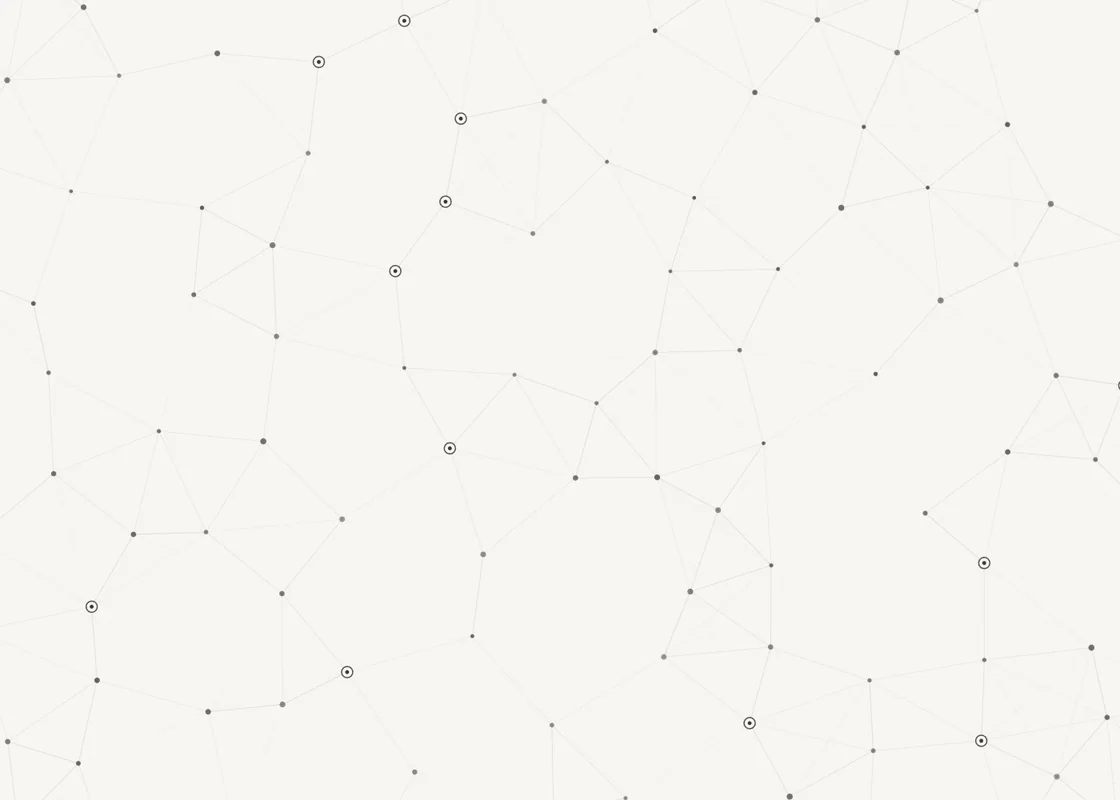
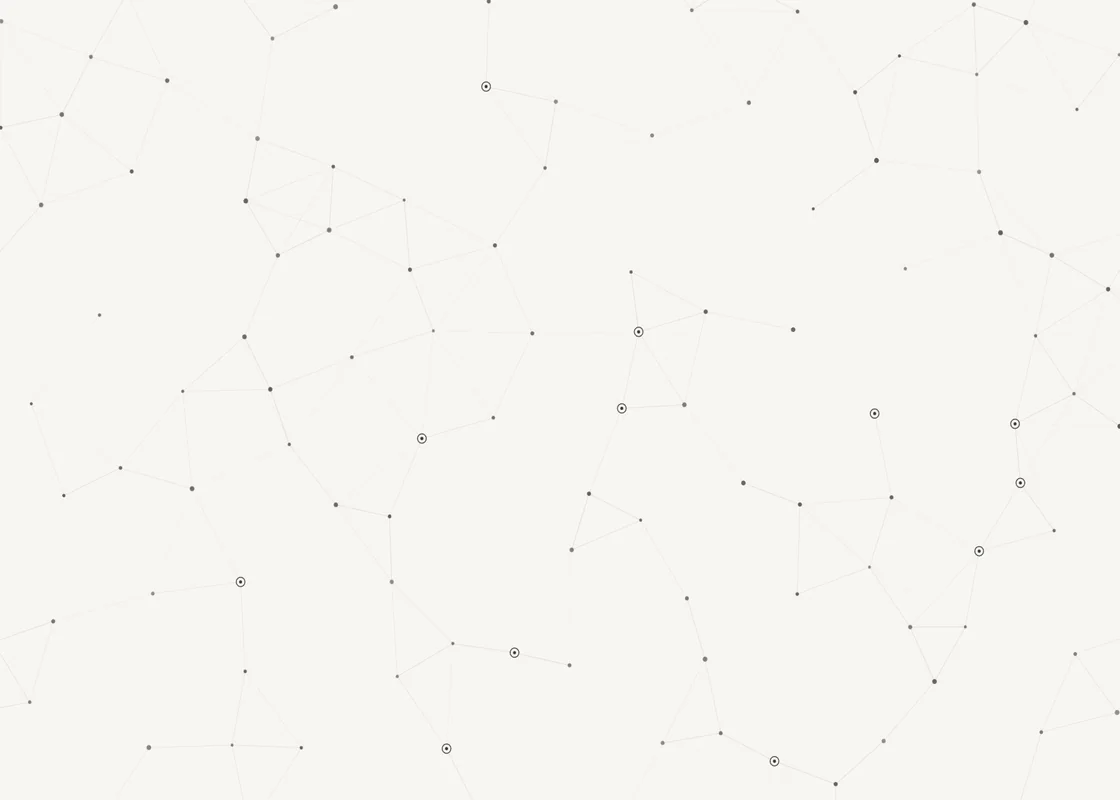
Remove Writing section from home, Producty first, fix timeline title, new preview images
- Delete 05 Writing block from home.html; Contact renumbered to 05
- Producty moves to order=1 (first), Traffic to order=2 in seed.py
- Timeline entry fixed: MSc Mathematics (Integrated) → MSc Mathematics
- Regenerate producty.webp from PDF title page, traffic.webp from mesh strip

Changed region(s): [[0.875, 0.6875, 0.9062, 0.7188], [0.375, 0.5312, 0.4062, 0.5625], [0.0625, 0.75, 0.0938, 0.7812]]

diff --git a/templates/core/home.html b/templates/core/home.html
@@ -118,29 +118,9 @@
 </section>
 {% endif %}
 
-<!-- ============ 05 Writing ============ -->
-{% if posts %}
-<section class="section container" id="writing">
-  <div class="mono-label section__label reveal">05 — Writing</div>
-  <div class="stagger">
-    {% for post in posts %}
-    <article class="row row--post reveal">
-      <div class="row__side mono-label">{{ post.published_at|date:"M Y" }}</div>
-      <div>
-        <h3 class="post__title serif"><a href="{{ post.get_absolute_url }}">{{ post.title }}<span class="project__arrow">→</span></a></h3>
-        {% if post.excerpt %}<p class="project__desc">{{ post.excerpt }}</p>{% endif %}
-        <span class="mono-label post__meta">{{ post.reading_minutes }} min read</span>
-      </div>
-    </article>
-    {% endfor %}
-  </div>
-  <a class="text-link section__more reveal" href="{% url 'blog_list' %}">All posts</a>
-</section>
-{% endif %}
-
-<!-- ============ 06 Contact ============ -->
+<!-- ============ 05 Contact ============ -->
 <section class="section section--contact container" id="contact">
-  <div class="mono-label section__label reveal">06 — Contact</div>
+  <div class="mono-label section__label reveal">05 — Contact</div>
   <h2 class="contact__title serif reveal">Let's build something.</h2>
   <p class="contact__sub reveal">{{ profile.availability|default:"Open to roles and collaborations in applied AI and full-stack engineering." }}</p>
 

diff --git a/core/management/commands/seed.py b/core/management/commands/seed.py
@@ -24,6 +24,21 @@ class Command(BaseCommand):
 
         projects = [
             dict(
+                title="Producty — AI productivity tool",
+                tag="Applied AI · 2025",
+                description=(
+                    "Task management, calendar sync, habit tracking and highly "
+                    "stylized notes, with an AI assistant that plans your day, "
+                    "analyzes documents and drafts emails. Built with FastAPI, "
+                    "React, NVIDIA NIM (LLaMA 3.3 70B) and PostgreSQL."
+                ),
+                stack="FastAPI, React 19, NVIDIA NIM, LLaMA 3.3, PostgreSQL, Docker",
+                github_url="https://github.com/Prajnan-mj/Producty-AI-Based-Productivity-tool",
+                live_url="https://producty-web.onrender.com",
+                image_static="img/projects/producty.webp",
+                order=1,
+            ),
+            dict(
                 title="Traffic Violation Detector",
                 tag="Computer vision · 2025",
                 description=(
@@ -37,21 +52,6 @@ class Command(BaseCommand):
                 stack="YOLOv8, Python, OpenCV, OCR, Streamlit, Docker",
                 github_url="https://github.com/Prajnan-mj/Traffic-Violation-Detector",
                 image_static="img/projects/traffic.webp",
-                order=1,
-            ),
-            dict(
-                title="Producty — AI productivity tool",
-                tag="Applied AI · 2025",
-                description=(
-                    "Task management, calendar sync, habit tracking and highly "
-                    "stylized notes, with an AI assistant that plans your day, "
-                    "analyzes documents and drafts emails. Built with FastAPI, "
-                    "React, NVIDIA NIM (LLaMA 3.3 70B) and PostgreSQL."
-                ),
-                stack="FastAPI, React 19, NVIDIA NIM, LLaMA 3.3, PostgreSQL, Docker",
-                github_url="https://github.com/Prajnan-mj/Producty-AI-Based-Productivity-tool",
-                live_url="https://producty-web.onrender.com",
-                image_static="img/projects/producty.webp",
                 order=2,
             ),
         ]
@@ -82,7 +82,7 @@ class Command(BaseCommand):
             dict(
                 kind="education",
                 period="2025 — 2030",
-                title="MSc Mathematics (Integrated)",
+                title="MSc Mathematics",
                 organization="BITS Pilani, K K Birla Goa Campus",
                 description=(
                     "Five-year integrated Master of Science in Mathematics, "